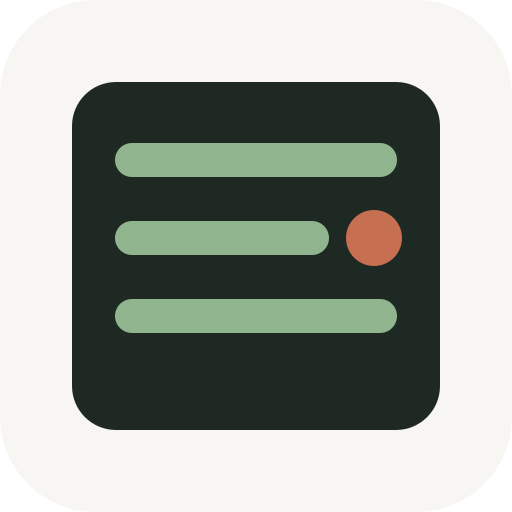
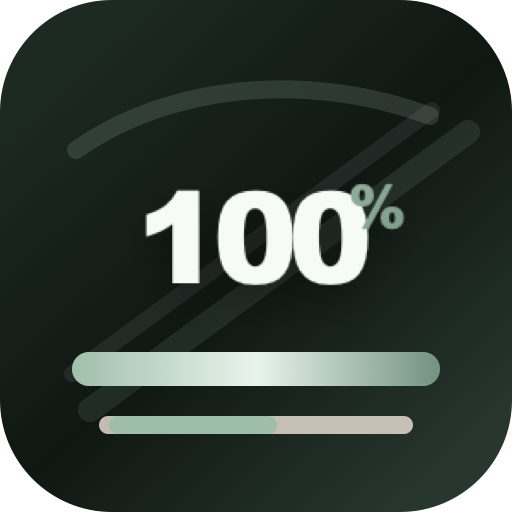
Rename app to 100 percent tracker

diff --git a/src/App.tsx b/src/App.tsx
@@ -637,6 +637,15 @@ const achievementProgressSpecs: Record<string, AchievementProgressSpec> = {
 };
 const appUpdates: AppUpdate[] = [
   {
+    id: "2026-06-17-100-percent-tracker-brand",
+    title: "アプリ名とアイコンを変更",
+    date: "2026-06-17",
+    items: [
+      "アプリ名を「100% トラッカー」に変更しました。",
+      "ファビコンとホーム画面用アイコンを、100%モチーフのスポーティーなデザインに変更しました。",
+    ],
+  },
+  {
     id: "2026-06-17-exception-pfc-bars",
     title: "例外日のHome表示を調整",
     date: "2026-06-17",
@@ -1493,7 +1502,7 @@ const appUpdates: AppUpdate[] = [
     items: [
       "ワークアウトプリセット本体を削除できるようにしました。標準プリセットも削除後に自動復活しません。",
       "ホームに未読更新バナーを追加し、タップで更新内容を確認できるようにしました。",
-      "設定のゴールトラッカー情報に、更新内容だけを開くリンクを追加しました。",
+      "設定の100% トラッカー情報に、更新内容だけを開くリンクを追加しました。",
       "クロストレーナーなど有酸素種目の分数を、記録中とプリセット編集時に指定しやすくしました。",
     ],
   },
@@ -6247,7 +6256,7 @@ function SettingsTab(props: {
       </section>}
 
       {activeSettingsSection === "general" && <section className="compact-card p-4 text-sm text-moss">
-        <p className="font-semibold text-ink">ゴールトラッカー</p>
+        <p className="font-semibold text-ink">100% トラッカー</p>
         <p>IndexedDB local-only · no login · no backend</p>
         <p className="mt-2">同じURLを友達が開いても、ログは各iPhone内に別々に保存されます。</p>
         <p className="mt-2 text-xs">レポート名: <span className="font-bold text-ink">{props.profile?.name || "未設定"}</span></p>
@@ -6587,7 +6596,7 @@ function Onboarding({ refresh }: { refresh: () => Promise<void> }) {
       <div className="onboarding-card compact-card p-5">
         <div className="flex items-start justify-between gap-4">
           <div>
-            <p className="text-xs font-black uppercase tracking-[0.16em] text-moss">Goal Tracker</p>
+            <p className="text-xs font-black uppercase tracking-[0.16em] text-moss">100% Tracker</p>
             <h1 className="mt-2 text-2xl font-black tracking-normal">初回設定</h1>
           </div>
           <span className="numeric-text mini-chip">{step + 1}/{steps.length}</span>

diff --git a/index.html b/index.html
@@ -10,8 +10,9 @@
     <meta name="apple-mobile-web-app-capable" content="yes" />
     <meta name="apple-mobile-web-app-status-bar-style" content="black-translucent" />
     <link rel="manifest" href="./manifest.webmanifest" />
+    <link rel="icon" href="./favicon.svg" type="image/svg+xml" />
     <link rel="apple-touch-icon" href="./icon-192.png" />
-    <title>ゴールトラッカー</title>
+    <title>100% トラッカー</title>
   </head>
   <body>
     <div id="root"></div>

diff --git a/src/lib/report.ts b/src/lib/report.ts
@@ -156,7 +156,7 @@ export function generateMarkdownReport(input: {
   const targetBodyCompositionDetail = formatTargetBodyCompositionDetail(input.goal, currentBodyComposition);
   const targetCustomizationText = formatTargetCustomization(input.goal);
 
-  return `# ゴールトラッカー AI相談レポート
+  return `# 100% トラッカー AI相談レポート
 
 ${isDaily ? `対象日: ${input.periodStart}` : `期間: ${input.periodStart} - ${input.periodEnd}`}
 

diff --git a/Design.md b/Design.md
@@ -1,13 +1,13 @@
-# ゴールトラッカー Design
+# 100% トラッカー Design
 
-ゴールトラッカー is a mobile-first local PWA for one personal user. The interface is built for repeated iPhone logging: dense, quiet, tap-first, and fast enough to use between meals or sets.
+100% トラッカー is a mobile-first local PWA for one personal user. The interface is built for repeated iPhone logging: dense, quiet, tap-first, and fast enough to use between meals or sets.
 
 ## Product Shape
 
-- Four tabs: Home, Food, Workout, Settings.
+- Five tabs: Home, Food, Workout, History, Settings.
 - No account, no cloud, no user switching.
 - IndexedDB owns all user data. LocalStorage only stores small UI preferences.
-- Food logging favors presets, recents, favorites, chain search, category drilldown, and quick estimates before manual entry.
+- Food logging favors search, favorites, personal menus, recommendations, chain search, recent-history reuse, and quick general estimates before manual entry.
 - Workout logging favors templates, previous copies, body-part drilldown, equipment drilldown, and stepper controls.
 - Settings always exposes JSON backup/import and reminds the user to back up local data.
 
@@ -25,3 +25,4 @@
 - Missing food days are displayed as missing, never counted as zero.
 - Goal changes update targets going forward without mutating old entries.
 - Manual entry exists, but quick logging is the default path.
+- Exception days such as cheat day, travel/Hokkaido modes, and pause mode keep streaks intact and visually mark Home goal evaluation as special handling.

diff --git a/DataSources.md b/DataSources.md
@@ -1,6 +1,6 @@
 # Food Data Source Policy
 
-ゴールトラッカー keeps bundled food data with these source quality labels:
+100% トラッカー keeps bundled food data with these source quality labels:
 
 - `official/high`: copied from a brand's official nutrition page or PDF, with `source_url` and `fetched_at`.
 - `unofficial/medium`: copied from a third-party nutrition database when official P/F/C was not verified. The app must show this as `非公式値`.

diff --git a/README.md b/README.md
@@ -1,4 +1,4 @@
-# ゴールトラッカー
+# 100% トラッカー
 
 Mobile-first local-only PWA for food, workout, body weight, goal, and AI-ready report logging.
 